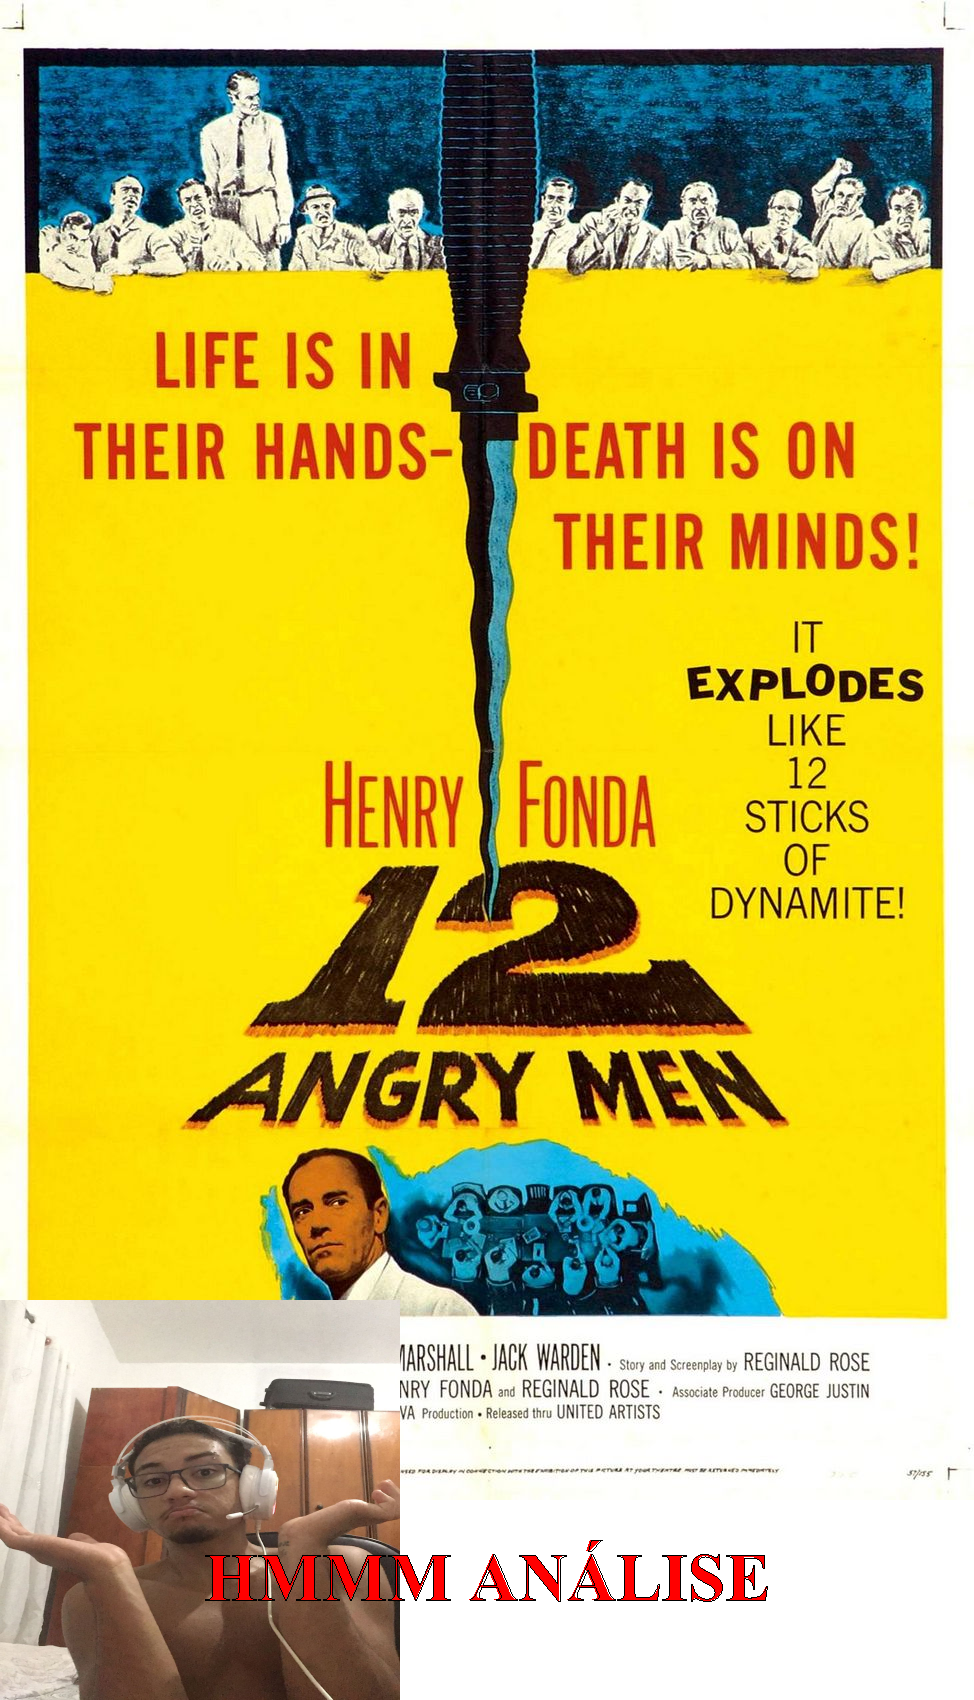
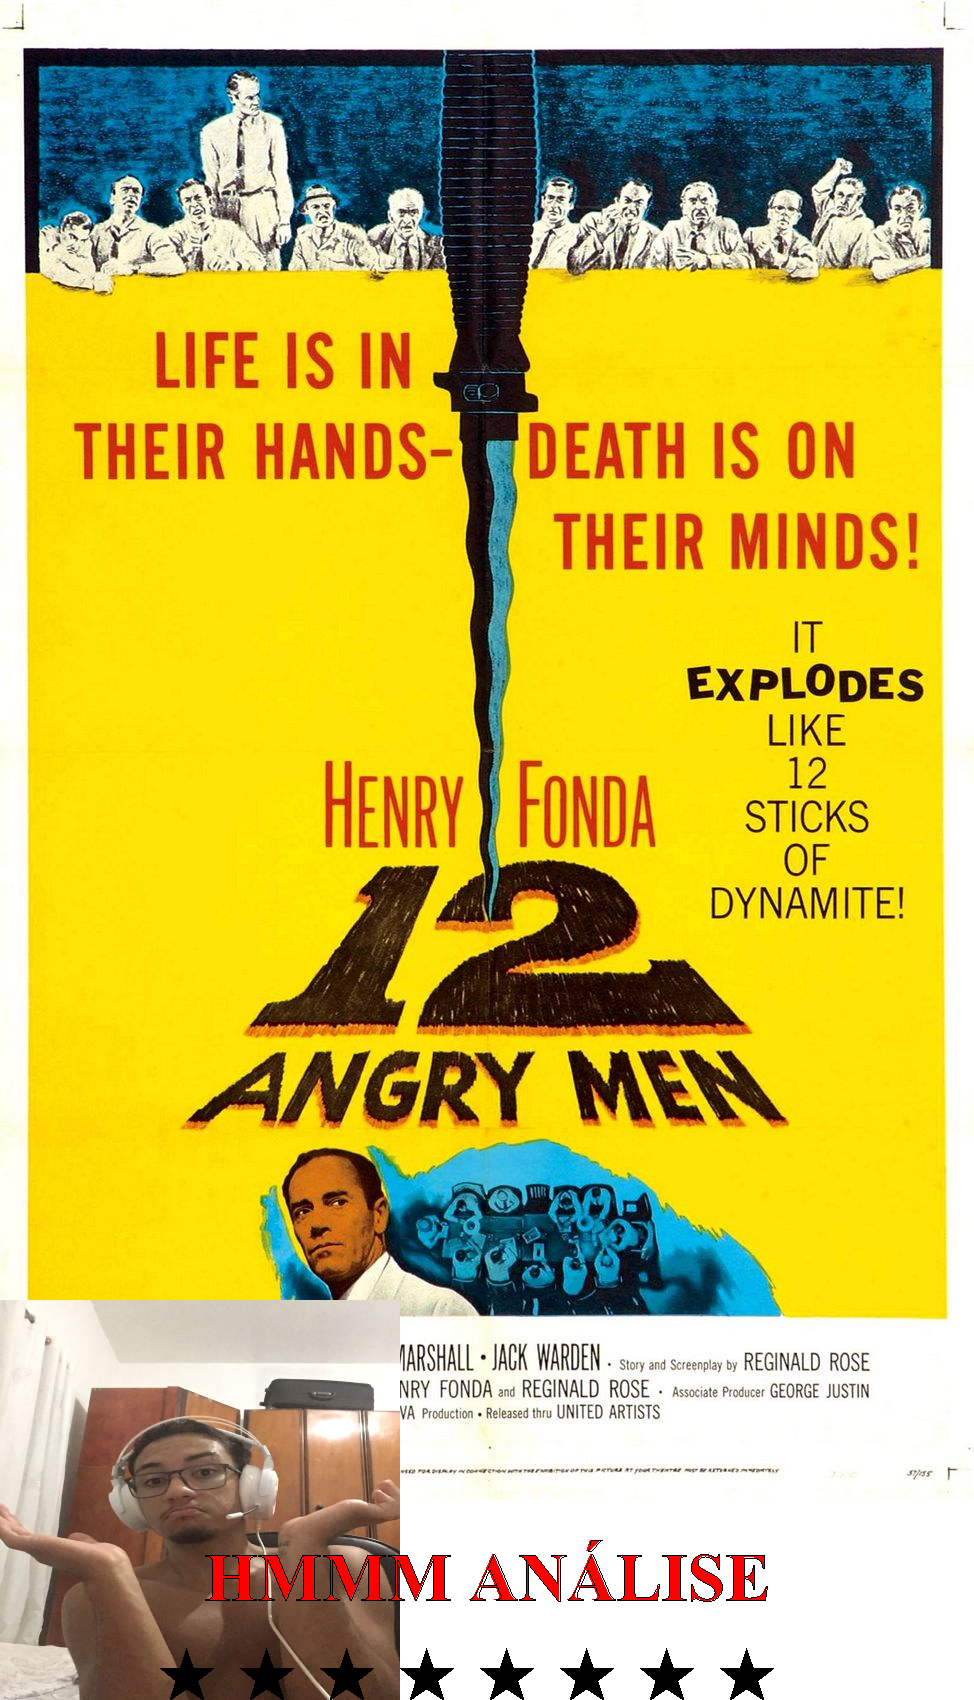
commit aula 03

diff --git a/src/App.java b/src/App.java
@@ -1,63 +1,54 @@
 import java.io.File;
 import java.io.FileInputStream;
 import java.io.InputStream;
-import java.net.URI;
 import java.net.URL;
-import java.net.http.HttpClient;
-import java.net.http.HttpRequest;
-import java.net.http.HttpResponse;
-import java.net.http.HttpResponse.BodyHandlers;
 import java.util.List;
-import java.util.Map;
-
-
 public class App {
+    //chcp 65001 digitar para aparecer os emojis
     public static void main(String[] args) throws Exception {
         //fazendo a conexao http
         String url="https://raw.githubusercontent.com/alura-cursos/imersao-java-2-api/main/TopMovies.json";
-        URI endereco=URI.create(url);
-        HttpClient client =HttpClient.newHttpClient();
-        //buscando os dados da url
-        HttpRequest request = HttpRequest.newBuilder(endereco).GET().build();
-        HttpResponse <String>response=client.send(request, BodyHandlers.ofString());
-        String body = response.body();
-        JsonParser parser= new JsonParser();
-        List <Map<String, String>> listaDeFilmes=parser.parse(body);
+        var http= new ClienteHttp();
+        String json = http.buscaDados(url);
         //criando diretorio caso não exista
-        listaDeFilmes.set(0, null);
-         System.out.println(listaDeFilmes.get(0));
         var diretorio=new File("saida/");
         diretorio.mkdir();
-        for(Map<String,String> filme:listaDeFilmes){
+        //exibindo e manipulando dados
+        ExtratorDeConteudo extrator= new ExtratorDeConteudoImdb();
+        List<Conteudo>conteudos= extrator.extraiConteudos(json);
+        for(int i=0;i<conteudos.size();i++){
+            Conteudo conteudo=conteudos.get(i);
             //criando as figurinhas
-            String urlImagem=filme.get("image");
-            String titulo=filme.get("title");
-            double classifi=  Double.parseDouble(filme.get("imDbRating"));
+            InputStream urlImage= new URL(conteudo.getUrlImagem()).openStream();
+            String nomeArquivo= conteudo.getTitulo();
+            double classifi= conteudo.getClassificacao();
             String textoFigurinha;
             InputStream imagemSelo;
+            int nEstrela=(int)classifi;
+            String tipoestrela;
             if(classifi>=9.0){
+                tipoestrela="❤";
                 textoFigurinha="BÃO DEMAIS DA CONTA SÔ";
                 imagemSelo= new FileInputStream(new File("selo/aprovadop.jpeg"));
             }
 
             else if(classifi>=6.0){
+                tipoestrela="★";
                 textoFigurinha="HMMM ANÁLISE";
                 imagemSelo= new FileInputStream(new File("selo/analisep.jpeg"));
             }
             else{
+                tipoestrela="☹";
                 textoFigurinha="NEM PERCA SEU TEMPO!";
                 imagemSelo= new FileInputStream(new File("selo/reprovadop.jpeg"));
             }
 
-            InputStream inputStream= new URL(urlImagem).openStream();
-            String nomeArquivo= titulo;
+            
             //chcp 65001 digitar para aparecer os emojis
-            var geradora =new GeradoraDeFigurinhas();
-            geradora.cria(inputStream, nomeArquivo,textoFigurinha,imagemSelo);
+           
             //exibindo
-            System.out.println(" \u001b[40m \u001b[1mTítulo:\u001b[31m"+filme.get("title")+"\u001b[m");
-            System.out.println("\u001b[36m \u001b[40m URL da Imagem:\u001b[m"+"\u001b[1m"+filme.get("image")+"\u001b[m");
-            int nEstrela=(int)classifi;
+            System.out.println(" \u001b[40m \u001b[1mTítulo:\u001b[31m"+conteudo.getTitulo()+"\u001b[m");
+            System.out.println("\u001b[36m \u001b[40m URL da Imagem:\u001b[m"+"\u001b[1m"+conteudo.getUrlImagem()+"\u001b[m");
             System.out.print( " \u001b[44m\u001b[32m Rating:\u001b[m");
             
             for(int n=1;n<=nEstrela;n++){
@@ -73,6 +64,8 @@ public class App {
             
             
         }
+            var geradora =new GeradoraDeFigurinhas();
+            geradora.cria(urlImage, nomeArquivo,textoFigurinha,imagemSelo,nEstrela,tipoestrela);
             System.out.println("\n");
        }
       

diff --git a/src/GeradoraDeFigurinhas.java b/src/GeradoraDeFigurinhas.java
@@ -14,11 +14,11 @@ import java.awt.FontMetrics;
 import javax.imageio.ImageIO;
 
 public class GeradoraDeFigurinhas {
-    public void cria(InputStream inputStream,String nomearquivo,String textofigurinha,InputStream seloInputStream) throws Exception{
+    public void cria(InputStream inputStream,String nomearquivo,String textofigurinha,
+    InputStream seloInputStream, Integer nEstrela,String tipoestrela) throws Exception{
     //ler a imagem
     //var inputStream= new URL("https://raw.githubusercontent.com/alura-cursos/imersao-java-2-api/main/TopMovies_2.jpg");
     BufferedImage imagemoriginal = ImageIO.read(inputStream);
-    
     //criar nova imagem em memoria com transparencia e com tamanho novo
     int largura= imagemoriginal.getWidth();
     int altura= imagemoriginal.getHeight();
@@ -43,7 +43,34 @@ public class GeradoraDeFigurinhas {
     int larguraTexto = (int) retangulo.getWidth();
     int posicaoTextoX=(largura-larguraTexto)/2;
     int posicaoTextoY=novaAltura-100;
+    var retanguloo=fontMetrics.getStringBounds(tipoestrela,graphics);
+    int larguraEstrela = (int) retanguloo.getWidth();
+    int posicaoEstrelaX=((largura-larguraEstrela)/2)-300;
+    int posicaoEstrelaY=novaAltura;
+    int contadorestrela=10;
     graphics.drawString(textofigurinha,posicaoTextoX,posicaoTextoY);
+    //escrevendo numero de estrelas
+    for(int i=0;i<nEstrela-1;i++){
+        if(nEstrela>=9){
+            graphics.setFont(fonte);
+            graphics.setColor(Color.black);
+            graphics.drawString(tipoestrela,posicaoEstrelaX,posicaoEstrelaY);
+            posicaoEstrelaX+=80;
+            
+        }
+        else  if(nEstrela>=6){
+            graphics.setFont(fonte);
+            graphics.setColor(Color.black);
+            graphics.drawString(tipoestrela,posicaoEstrelaX,posicaoEstrelaY);
+            posicaoEstrelaX+=80;
+           
+        }
+        else 
+        graphics.setFont(fonte);
+        graphics.setColor(Color.black);
+        graphics.drawString(tipoestrela,posicaoEstrelaX,posicaoEstrelaY);
+    }
+    //fazendo contorno do texto
     FontRenderContext renderFont= graphics.getFontRenderContext();
     var textLayout = new TextLayout(textofigurinha,fonte,renderFont);
      Shape outline= textLayout.getOutline(null);

diff --git a/src/ExtratorDeConteudoImdb.java b/src/ExtratorDeConteudoImdb.java
@@ -1,0 +1,21 @@
+import java.util.ArrayList;
+import java.util.List;
+import java.util.Map;
+
+public class ExtratorDeConteudoImdb implements ExtratorDeConteudo {
+    public List<Conteudo>extraiConteudos(String json){
+        //extrair somente os dados q interessam
+        var parser = new JsonParser();
+        List<Map<String,String>> listaDeAtributos=parser.parse(json);
+        List<Conteudo> conteudos=new ArrayList<>();
+        //popular a lista
+        for (Map<String,String>atributos : listaDeAtributos) {
+            String titulo=atributos.get("title");
+            String urlImagem=atributos.get("image");
+            double classifi=  Double.parseDouble(atributos.get("imDbRating"));
+            Conteudo conteudo = new Conteudo(titulo, urlImagem,classifi) ;
+            conteudos.add(conteudo);           
+        }
+        return conteudos;
+    }
+}

diff --git a/src/ClienteHttp.java b/src/ClienteHttp.java
@@ -1,0 +1,24 @@
+import java.io.IOException;
+import java.net.URI;
+import java.net.http.HttpClient;
+import java.net.http.HttpRequest;
+import java.net.http.HttpResponse;
+import java.net.http.HttpResponse.BodyHandlers;
+
+public class ClienteHttp {
+    public String buscaDados(String url){
+        try{
+            URI endereco=URI.create(url);
+            HttpClient client =HttpClient.newHttpClient();
+            //buscando os dados da url
+            HttpRequest request = HttpRequest.newBuilder(endereco).GET().build();
+            HttpResponse <String>response=client.send(request, BodyHandlers.ofString());
+            String body = response.body();
+            return body;
+        }catch(IOException | InterruptedException ex){
+
+            throw new RuntimeException(ex);
+        }
+       
+    }
+}

diff --git a/src/Conteudo.java b/src/Conteudo.java
@@ -1,0 +1,24 @@
+public class Conteudo {
+    
+    private final String titulo; 
+    private final String urlImagem ;
+    private final Double classificacao;
+    public String getTitulo() {
+        return titulo;
+    }
+    public String getUrlImagem() {
+        return urlImagem;
+    }
+    public Double getClassificacao(){
+        return classificacao;
+    }
+    public Conteudo(String titulo, String urlImagem,Double classificacao) {
+        this.titulo = titulo;
+        this.urlImagem = urlImagem;
+        this.classificacao=classificacao;
+    }
+    
+
+
+
+}

diff --git a/src/ExtratorDeConteudo.java b/src/ExtratorDeConteudo.java
@@ -1,0 +1,5 @@
+import java.util.List;
+
+public interface ExtratorDeConteudo {
+    List<Conteudo>extraiConteudos(String json);
+}
